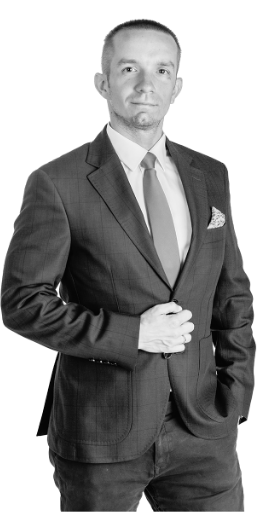
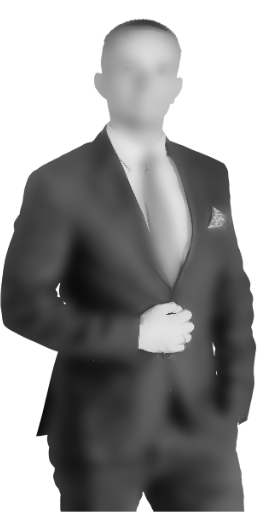
deleted name and images

diff --git a/index.html b/index.html
@@ -27,12 +27,12 @@
                 </div>
                     <nav class="menu__nav">
                         <ul>
-                            <li><a href="onas.html">O NAS</a></li>
-                            <li><a href="specjalizacje.html">SPECJALIZACJE</a></li>
-                            <li><a href="zespol.html">ZESPÓŁ</a></li>
-                            <li><a href="aktualnosci.html">AKTUALNOŚCI</a></li>
-                            <li><a href="zaufaj.html">ZAUFAJ NAM</a></li>
-                            <li><a href="kontakt.html">KONTAKT</a></li>
+                            <li><a href="index.html">O NAS</a></li>
+                            <li><a href="index.html">SPECJALIZACJE</a></li>
+                            <li><a href="index.html">ZESPÓŁ</a></li>
+                            <li><a href="index.html">AKTUALNOŚCI</a></li>
+                            <li><a href="index.html">ZAUFAJ NAM</a></li>
+                            <li><a href="index.html">KONTAKT</a></li>
                             <li class="menu__language">PL</li>
                             <li class="menu__language">EN</li>
                         </ul>
@@ -131,35 +131,35 @@
                 <div class="item slider__worker">
                         <div class="slider__worker--img">
                             <img src="./img/slider1.png">
-                            <div class="slider__worker--position"><div class="slider__worker--name">Mateusz Heinrich</div></div>
+                            <div class="slider__worker--position"><div class="slider__worker--name">Mateusz H</div></div>
                         </div>
                     <div class="slider__worker--text blok__text">radca prawny / partner</div>
                 </div>
                 <div class="item slider__worker">
                     <div class="slider__worker--img">
                         <img src="./img/slider2.png">
-                        <div class="slider__worker--position"><div class="slider__worker--name">Michał Kaczanowski</div></div>
+                        <div class="slider__worker--position"><div class="slider__worker--name">Michał K</div></div>
                     </div>
                 <div class="slider__worker--text blok__text">radca prawny / partner</div>
                 </div>
                 <div class="item slider__worker">
                     <div class="slider__worker--img">
                         <img src="./img/slider3.png">
-                        <div class="slider__worker--position"><div class="slider__worker--name">Barbara Adamaszek-Byba</div></div>
+                        <div class="slider__worker--position"><div class="slider__worker--name">Barbara A</div></div>
                     </div>
                     <div class="slider__worker--text blok__text">adwokat</div>
                 </div>
                 <div class="item slider__worker">
                     <div class="slider__worker--img">
                             <img src="./img/slider4.png">
-                            <div class="slider__worker--position"><div class="slider__worker--name">Anna Kuś-Kluka</div></div>
+                            <div class="slider__worker--position"><div class="slider__worker--name">Anna K</div></div>
                             </div>
                         <div class="slider__worker--text blok__text">radca prawny</div>
                 </div>
                 <div class="item slider__worker">
                     <div class="slider__worker--img">
                         <img src="./img/slider1.png">
-                        <div class="slider__worker--position"><div class="slider__worker--name">Mateusz Heinrich</div></div>
+                        <div class="slider__worker--position"><div class="slider__worker--name">Mateusz H</div></div>
                     </div>
                 <div class="slider__worker--text blok__text">radca prawny / partner</div>
                 </div>
@@ -170,7 +170,7 @@
             </div>
             <div class="bloks2">
                 <div class="bloks2--container">
-                    <div class="bloks2--blok1">Mateusz Heinrich</div>
+                    <div class="bloks2--blok1">Mateusz H</div>
                     <div class="bloks2--blok1" style="text-align: right;">24.05.2020</div>
                     <div class="bloks2--blok2">
                         10 najczęstszych błędów prawnych 
@@ -182,7 +182,7 @@
                     </div>
                 </div>
                 <div class="bloks2--container">
-                    <div class="bloks2--blok1">Mateusz Heinrich</div>
+                    <div class="bloks2--blok1">Mateusz H</div>
                     <div class="bloks2--blok1" style="text-align: right;">24.05.2020</div>
                     <div class="bloks2--blok2">
                         10 najczęstszych błędów prawnych 
@@ -194,7 +194,7 @@
                     </div>
                 </div>
                 <div class="bloks2--container">
-                    <div class="bloks2--blok1">Mateusz Heinrich</div>
+                    <div class="bloks2--blok1">Mateusz H</div>
                     <div class="bloks2--blok1" style="text-align: right;">24.05.2020</div>
                     <div class="bloks2--blok2">
                         10 najczęstszych błędów prawnych 
@@ -229,7 +229,7 @@
             <div class="footer--blok">Skoczów</div>
             <div class="footer--blok">Kraków</div>
         </div>
-        <div class="footer__container--blok">biuro@juvo.pl<br>+48 784 072 348</div>
+        <div class="footer__container--blok">biuro@juvo.pl<br>+48 123 456 789</div>
         <div class="footer__container--blok">
             <div class="footer--blok">ul. Podwale 45<br>43-300 Bielsko-Biała</div>
             <div class="footer--blok">Rynek 7 / Powiśle 2<br>43-430 Skoczów</div>
